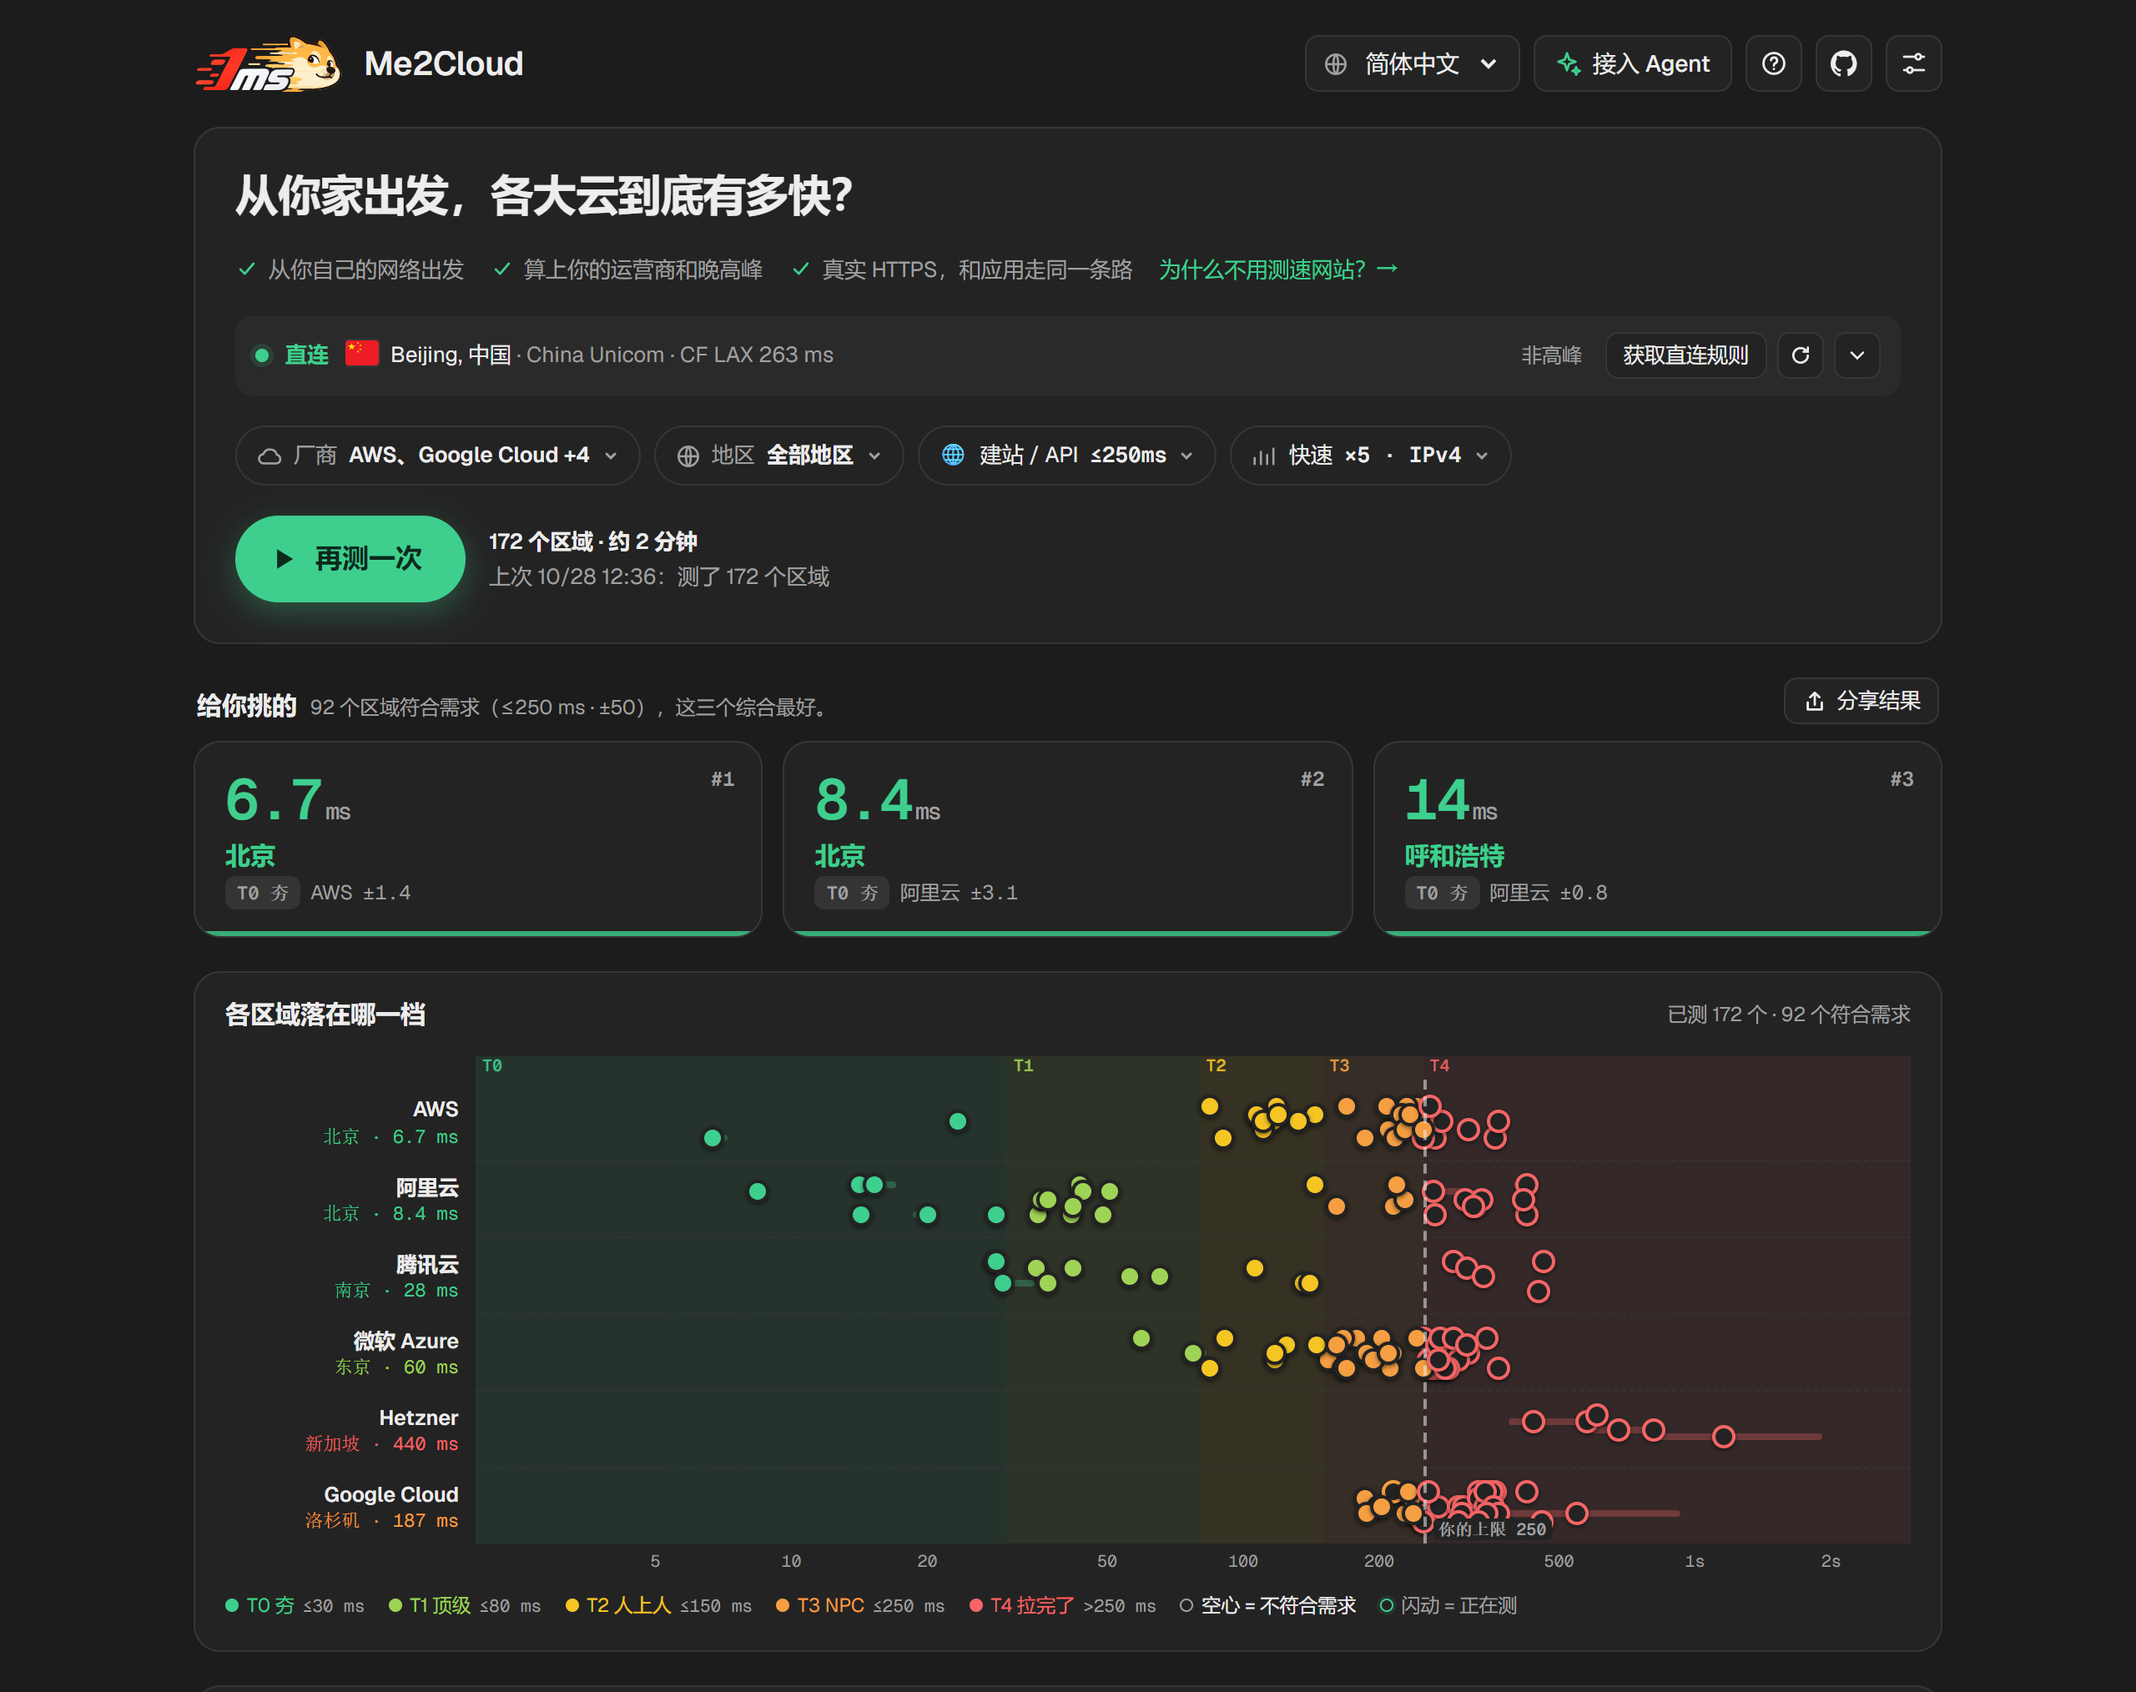
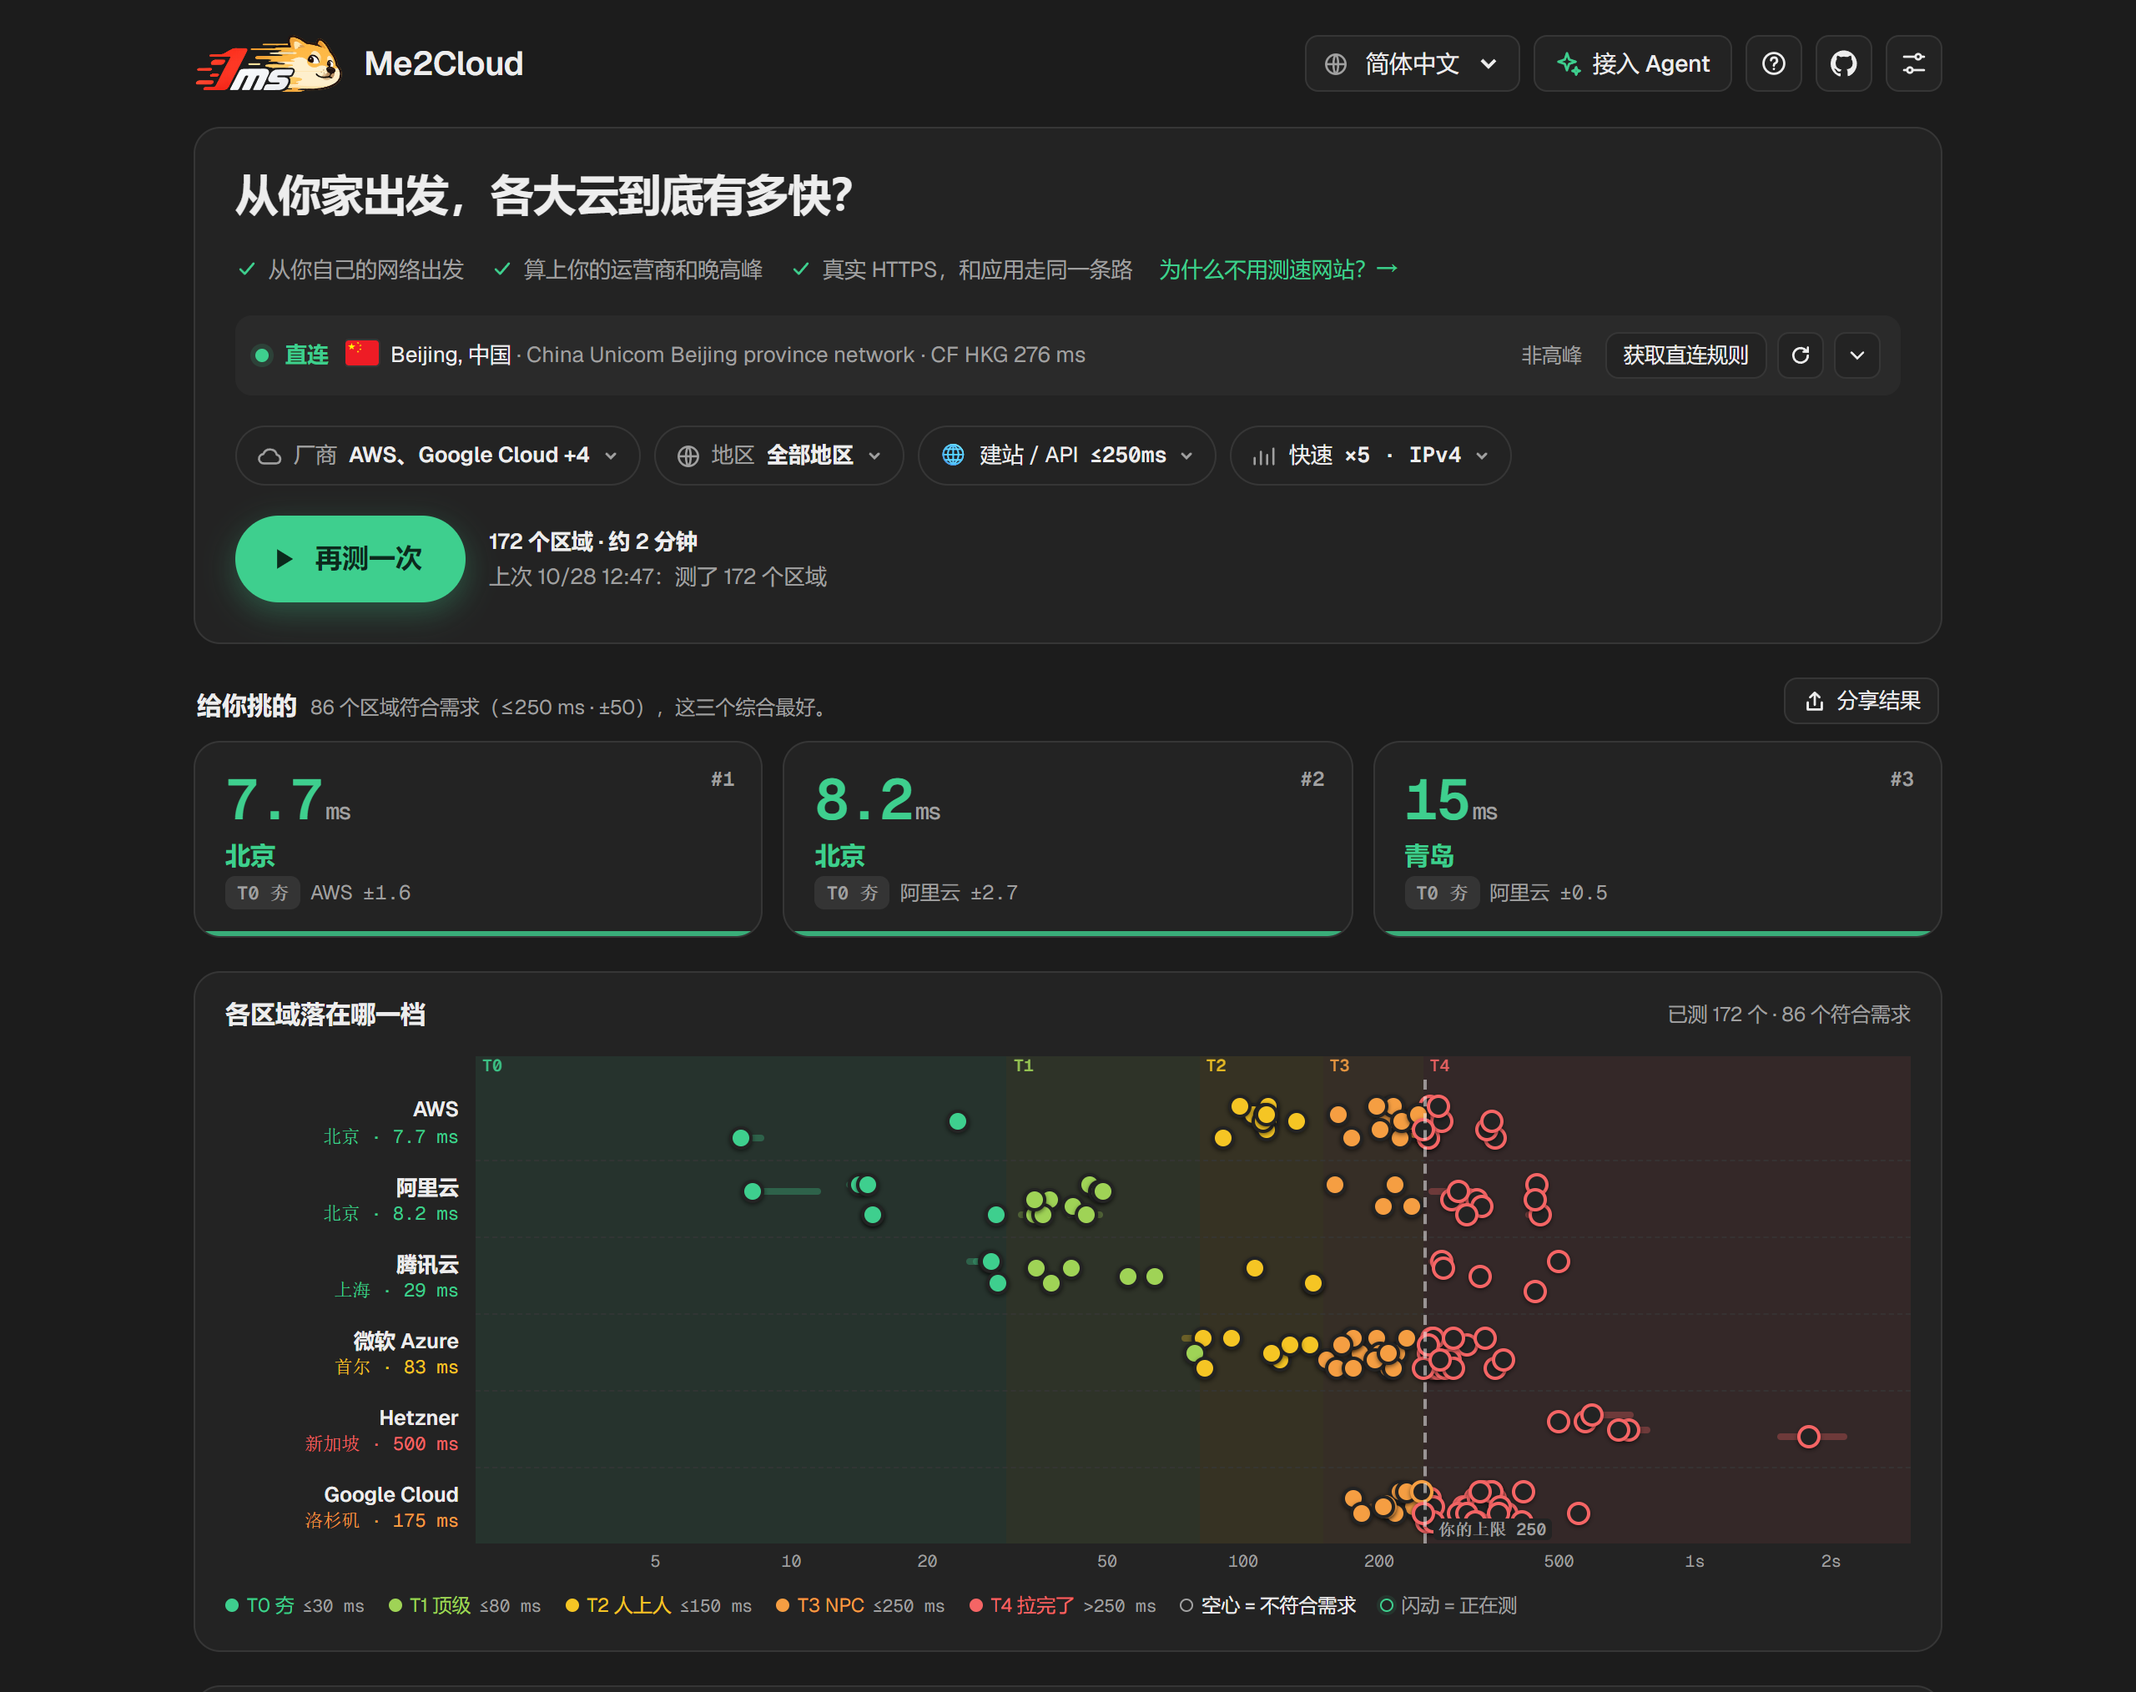
Chinese screenshots for the Chinese README
Both screenshot sets now come from one run, and README.zh-CN.md shows
the Chinese interface for the region detail, direct rules, share image
and phone views.

diff --git a/README.zh-CN.md b/README.zh-CN.md
@@ -29,11 +29,11 @@
 
 | 单个区域的每一次采样 | 代理工具的直连规则 |
 |---|---|
-| ![单个区域详情：采样、中位数、抖动、丢包和使用的端点](docs/screenshots/results-en.png) | ![直连规则对话框，显示 Clash 远程规则集](docs/screenshots/rules-en.png) |
+| ![单个区域详情：采样、中位数、抖动、丢包和使用的端点](docs/screenshots/results-zh.png) | ![直连规则对话框，显示 Clash 远程规则集](docs/screenshots/rules-zh.png) |
 
 | 分享图 | 手机上 | English |
 |---|---|---|
-| ![浏览器里生成的分享图](docs/screenshots/share-en.png) | ![手机上的 Me2Cloud](docs/screenshots/mobile-en.png) | ![英文界面](docs/screenshots/hero-en.png) |
+| ![浏览器里生成的分享图](docs/screenshots/share-zh.png) | ![手机上的 Me2Cloud](docs/screenshots/mobile-zh.png) | ![英文界面](docs/screenshots/hero-en.png) |
 
 ## 自己部署
 
